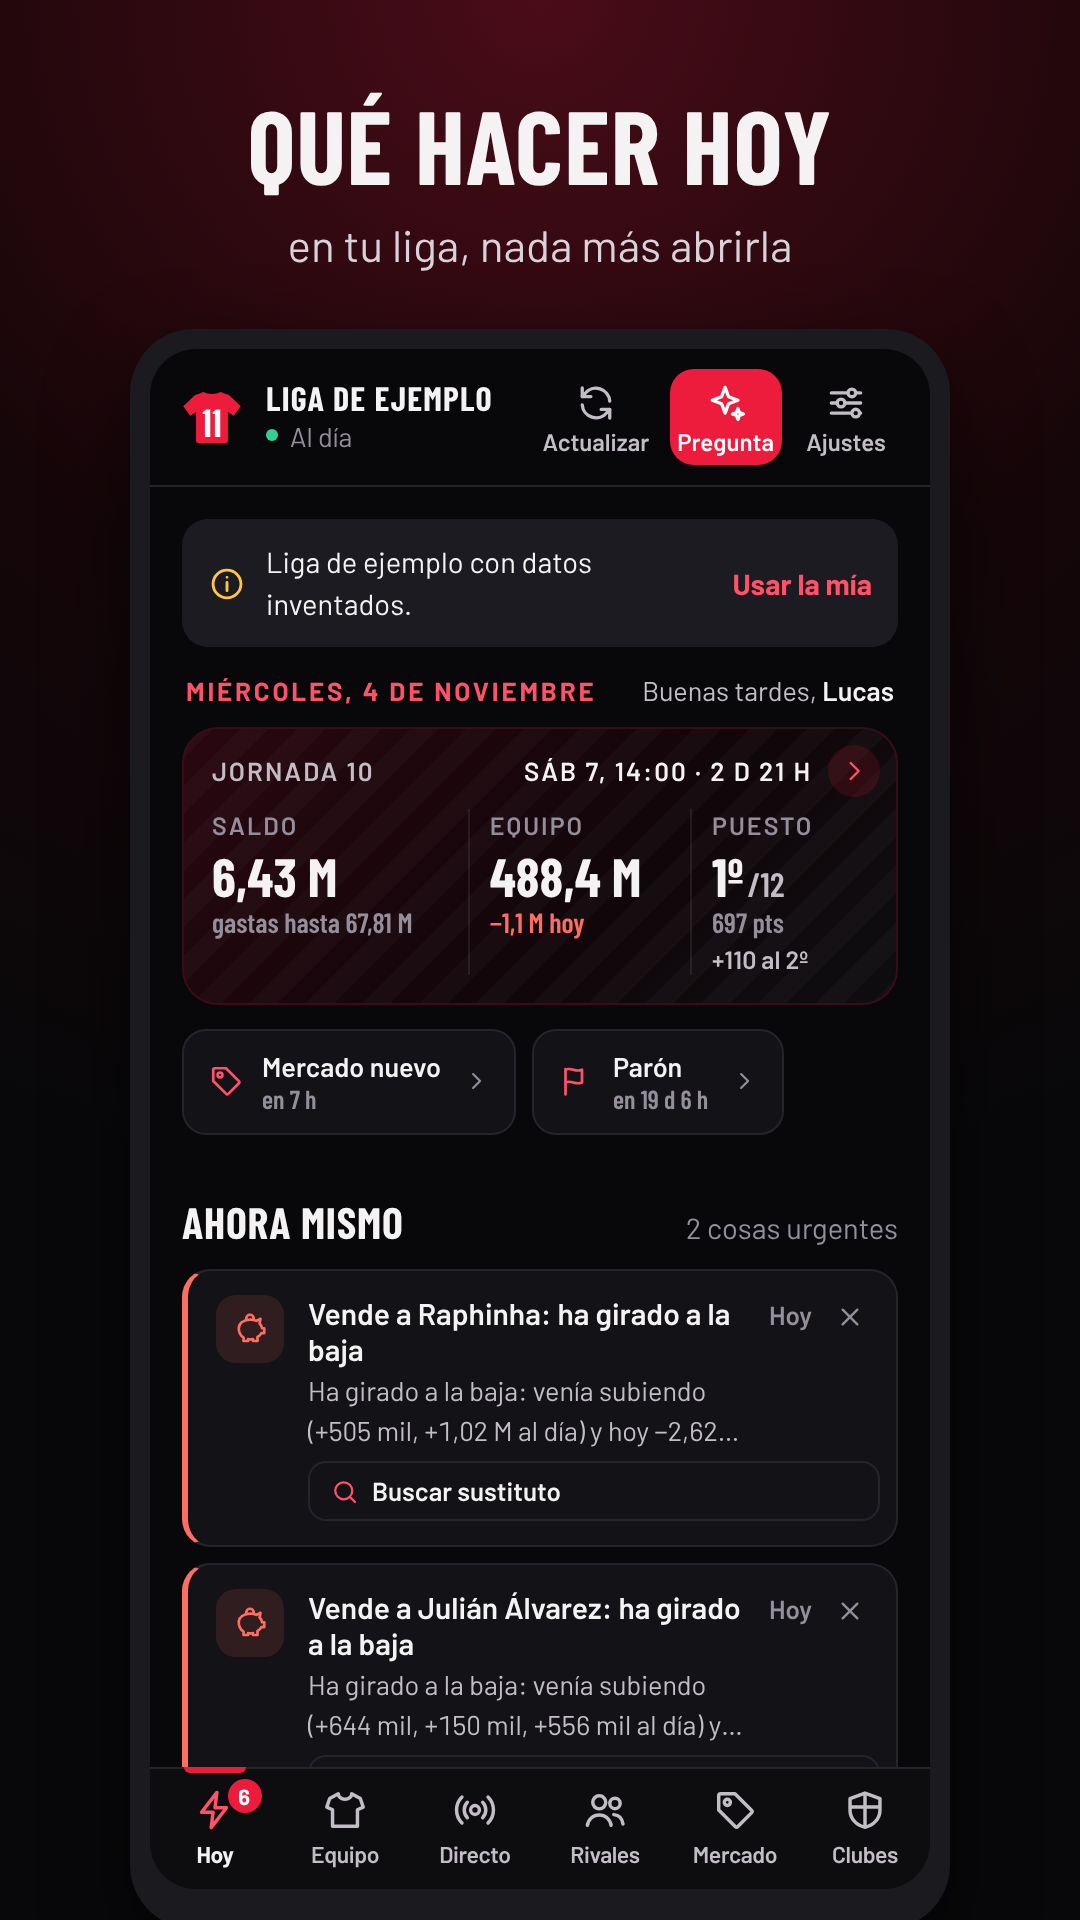
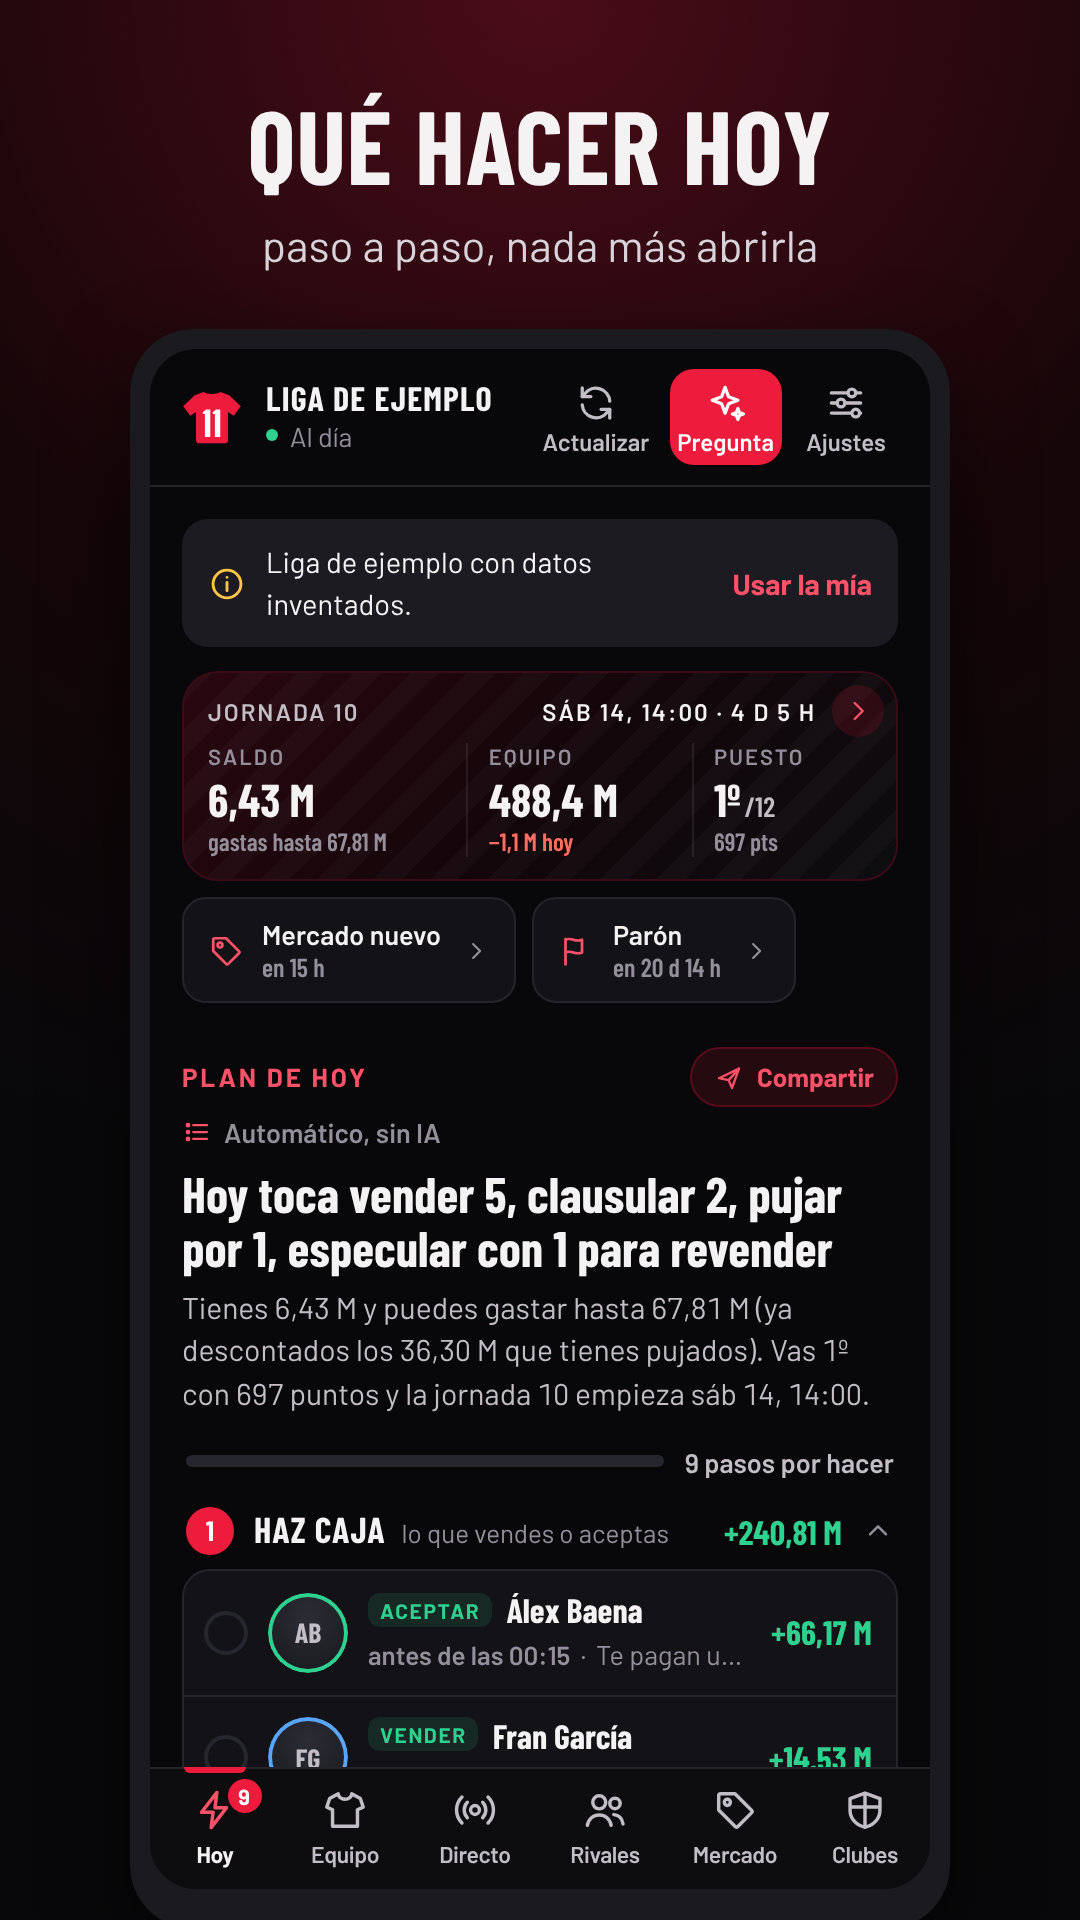
Play: capturas de la 0.7.1e, ficha y política
- Las 8 capturas rehechas con la demo sin parón: la 2 pasa a ser la ficha de
  un club en «Suben y bajan» y la 9, Equipo → Jornadas; la 6 (chat) con una
  respuesta escrita a mano y la cabecera «IA», sin nombres de modelos.
- capturas-play.py: pasos por pantalla, Google simulado con page.route y
  todo lo que no es localhost cortado.
- ficha.md: tabla de capturas y la frase de los nombres de los rivales.
- privacidad.html: el segundo plano viene activado.

Claude-Session: https://claude.ai/code/session_01H9251SnFP7tS7XhvjCDxEG

Changed region(s): [[0.1528, 0.3438, 0.825, 0.9375], [0.2444, 0.125, 0.7639, 0.1562], [0.7028, 0.9062, 0.825, 0.9375]]

diff --git a/web/privacidad.html b/web/privacidad.html
@@ -44,7 +44,7 @@
     <li><b>Tu sesión de LaLiga Fantasy.</b> Entras en la página oficial de LaLiga y la app guarda el permiso que te da LaLiga para leer tu liga. Se guarda solo en tu móvil (o en tu navegador, en la versión web). Fantasy Manager nunca ve tu contraseña.</li>
     <li><b>Los datos de tu liga</b> (clasificación, plantillas, mercado, movimientos, tu saldo). Se descargan de LaLiga y se guardan solo en tu dispositivo para hacer los cálculos y el histórico.</li>
     <li><b>Tu clave de Google AI Studio</b>, si la pones para usar la IA. Se guarda en tu dispositivo. Si abres tu cuenta en el ordenador con el QR o el código, viaja cifrada por el servidor de la web (abajo, «La versión web») y se borra al usarla.</li>
-    <li><b>Lo que le preguntas a la IA.</b> Cuando pides el plan o escribes en el chat, la app manda directamente a la IA de Google, con tu clave (la de Google AI Studio), tu pregunta, las fotos que adjuntes y los datos de tu liga que hacen falta para contestar: tu plantilla, tu saldo, tus ofertas, el mercado y lo que hacen tus rivales. Se cambian los nombres en los datos de la liga: los demás de tu liga (también los que ya se fueron) van como «Rival 1», «Rival 2»…, y la app pone sus nombres de vuelta en la respuesta. Lo que escribas tú o las capturas que adjuntes van tal cual. (Si escribes el nombre de un rival como sale en la liga, la app también lo cambia, pero un apodo, un mote o lo que salga en una captura no.) En la app de Android, si activas el segundo plano, la app vuelve a pedir el plan cada pocas horas aunque no la abras (se apaga en Ajustes). Con la clave gratuita, Google puede usar lo que le mandas para mejorar sus productos y puede que lo lean personas; lo explica en sus <a href="https://ai.google.dev/gemini-api/terms">condiciones</a>. Por eso la IA es para mayores de 18 años y conviene no escribirle datos personales.</li>
+    <li><b>Lo que le preguntas a la IA.</b> Cuando pides el plan o escribes en el chat, la app manda directamente a la IA de Google, con tu clave (la de Google AI Studio), tu pregunta, las fotos que adjuntes y los datos de tu liga que hacen falta para contestar: tu plantilla, tu saldo, tus ofertas, el mercado y lo que hacen tus rivales. Se cambian los nombres en los datos de la liga: los demás de tu liga (también los que ya se fueron) van como «Rival 1», «Rival 2»…, y la app pone sus nombres de vuelta en la respuesta. Lo que escribas tú o las capturas que adjuntes van tal cual. (Si escribes el nombre de un rival como sale en la liga, la app también lo cambia, pero un apodo, un mote o lo que salga en una captura no.) En la app de Android, el segundo plano viene activado: la app vuelve a pedir el plan cada pocas horas aunque no la abras (se apaga en Ajustes → Trabaja con la app cerrada). Con la clave gratuita, Google puede usar lo que le mandas para mejorar sus productos y puede que lo lean personas; lo explica en sus <a href="https://ai.google.dev/gemini-api/terms">condiciones</a>. Por eso la IA es para mayores de 18 años y conviene no escribirle datos personales.</li>
     <li><b>Datos públicos de fútbol</b>: alineaciones probables, noticias y estadísticas de webs públicas. No llevan nada tuyo.</li>
   </ul>
 

diff --git a/.github/capturas-play.py b/.github/capturas-play.py
@@ -1,51 +1,110 @@
 """Las capturas de la ficha de Google Play (1080 x 1920) con la liga de ejemplo.
-Uso: en web/, `python3 -m http.server 8765`; desde la raíz del repo, `python3 .github/capturas-play.py`.
-Las deja en play/. Sin fotos de LaLiga: en local no cargan y salen las iniciales (lo que queremos en Play)."""
-import asyncio, base64
+Uso: en web/, `python3 -m http.server 8765`; desde la raíz del repo, `python3 .github/capturas-play.py [archivo…]`
+(PLAYWRIGHT_BROWSERS_PATH=/opt/pw-browsers en el entorno de Claude). Las deja en play/; con nombres, solo esas.
+Sin fotos de LaLiga: todo lo que no es localhost se corta y salen las iniciales (lo que queremos en Play).
+El chat de la IA no gasta cuota: la respuesta de Google es la de RESPUESTA_IA, escrita a mano con los datos de la demo
+(si cambia la demo, revisar las cifras). La cabecera del mensaje dice «IA», sin nombre de modelo."""
+import asyncio, base64, json, os, sys
 from playwright.async_api import async_playwright
-# (archivo, título, subtítulo, cómo llegar)
+
+PREGUNTA_IA = '¿Clausulo hoy a Kang-In Lee o espero?'
+RESPUESTA_IA = """**Clausúlalo hoy, pero después de vender.** Su cláusula es de 55,32 M y vale 52,77 M: pagas 2,55 M de más (un 4,8 %).
+
+- Entra en tu once y te da unos **4,6 pts por jornada**. Lleva 6,8 de media y acaba de hacer 13 en la J9.
+- Con lo que sube, recuperas esos 2,55 M en **unos 27 días**.
+- Si se tuerce, se lo vendes a LaLiga por unos 54,73 M y casi no pierdes.
+
+Con 6,43 M de saldo no te llega: primero acepta lo de Álex Baena y vende a Raphinha. Después de clausular te quedan unos **154,6 M** para pujar por Unai Simón."""
+
+# la sección «Tu once» de Equipo, arriba (debajo de la cabecera)
+TU_ONCE = "(() => { const e = [...document.querySelectorAll('h2, h3, .sec-t, .titulo2, div, span')].find((x) => x.children.length === 0 && /^tu once$/i.test(x.textContent.trim())); if (e) window.scrollTo(0, e.getBoundingClientRect().top + scrollY - 150); })()"
+# (archivo, título, subtítulo, pasos). Pasos: ('ir', vista), ('seg', 'vista:seg'), ('clic', selector), ('js', código),
+# ('scroll', selector), ('chat', pregunta), ('espera', ms)
 PANTALLAS = [
-  ('captura-1-hoy', 'QUÉ HACER HOY', 'en tu liga, nada más abrirla', "ir:hoy"),
-  ('captura-2-plan', 'PASO A PASO', 'con el saldo después de cada operación', "ir:hoy|scroll:.plan"),
-  ('captura-7-ficha', 'CADA JUGADOR, A FONDO', 'forma, rival, valor y quién lo puede pagar', "ir:equipo|seg:equipo:plantilla|abrir:[data-j]"),
-  ('captura-3-clausulas', 'CLÁUSULAS A TU ALCANCE', 'cuáles te llegan y cuándo se abren', "ir:rivales|seg:rivales:clausulas"),
-  ('captura-4-mercado', 'CUÁNTO PUJAR', 'según lo que se paga en tu liga', "ir:mercado"),
-  ('captura-5-equipo', 'TU MEJOR ONCE', 'con el calendario de cada jugador', "ir:equipo|seg:equipo:plantilla"),
-  ('captura-8-rivales', 'LO QUE HACE CADA RIVAL', 'fichajes, ventas y clausulazos al momento', "ir:rivales|seg:rivales:movimientos"),
-  ('captura-9-directo', 'LA JORNADA EN DIRECTO', 'tus jugadores y sus puntos, al minuto', "ir:directo"),
+  ('captura-1-hoy', 'QUÉ HACER HOY', 'paso a paso, nada más abrirla', [('ir', 'hoy')]),
+  ('captura-2-clubes', 'CLUB A CLUB', 'quién sube y quién baja en cada equipo', [('ir', 'clubes'), ('clic', '.club-card[data-club]'), ('clic', '[data-accion="segClub"][data-s="suben"]')]),
+  ('captura-3-clausulas', 'CLÁUSULAS A TU ALCANCE', 'cuáles te llegan y cuándo se abren', [('ir', 'rivales'), ('seg', 'rivales:clausulas')]),
+  ('captura-4-mercado', 'CUÁNTO PUJAR', 'según lo que se paga en tu liga', [('ir', 'mercado')]),
+  ('captura-5-equipo', 'TU MEJOR ONCE', 'con el calendario de cada jugador', [('ir', 'equipo'), ('seg', 'equipo:plantilla'), ('js', TU_ONCE)]),
+  ('captura-6-chat', 'PREGÚNTALE A LA IA', 'lo que quieras, gratis, también con capturas', [('chat', PREGUNTA_IA)]),
+  ('captura-7-ficha', 'CADA JUGADOR, A FONDO', 'forma, rival, valor y quién lo puede pagar', [('ir', 'equipo'), ('seg', 'equipo:plantilla'), ('clic', '[data-j]')]),
+  ('captura-8-rivales', 'LO QUE HACE CADA RIVAL', 'fichajes, ventas y clausulazos al momento', [('ir', 'rivales'), ('seg', 'rivales:movimientos')]),
+  ('captura-9-jornadas', 'TU ONCE, PUNTO A PUNTO', 'lo que suma cada jugador, jornada a jornada', [('ir', 'directo'), ('clic', '[data-accion="irJornada"][data-n="9"]')]),
 ]
-async def main():
+
+async def google(route):
+    """La IA de Google, de mentira: la lista de modelos y una respuesta escrita a mano (en trozos, como de verdad)."""
+    url = route.request.url
+    if '/models?' in url:
+        return await route.fulfill(status=200, content_type='application/json', body=json.dumps({'models': [{'name': 'models/gemini-3.5-flash', 'supportedGenerationMethods': ['generateContent']}]}))
+    trozos = [RESPUESTA_IA[i:i + 120] for i in range(0, len(RESPUESTA_IA), 120)]
+    pieza = lambda t, fin=None: 'data: ' + json.dumps({'candidates': [{'content': {'role': 'model', 'parts': [{'text': t}]}, **({'finishReason': fin} if fin else {})}], 'usageMetadata': {'promptTokenCount': 9000, 'candidatesTokenCount': 220}}) + '\r\n\r\n'
+    cuerpo = ''.join(pieza(t, 'STOP' if i == len(trozos) - 1 else None) for i, t in enumerate(trozos))
+    if 'alt=sse' in url:
+        return await route.fulfill(status=200, content_type='text/event-stream', body=cuerpo)
+    return await route.fulfill(status=200, content_type='application/json', body=json.dumps({'candidates': [{'content': {'role': 'model', 'parts': [{'text': RESPUESTA_IA}]}, 'finishReason': 'STOP'}]}))
+
+async def red(route):
+    u = route.request.url
+    if u.startswith('http://localhost'): return await route.continue_()
+    if 'generativelanguage.googleapis.com' in u: return await google(route)
+    return await route.abort()
+
+async def cerrar_hoja(pg):
+    await pg.evaluate("(() => { const b = document.querySelector('[data-accion=\"cerrarHoja\"], .hoja-x, [aria-label=\"Cerrar\"]'); if (b) b.click(); })()")
+    await pg.keyboard.press('Escape'); await pg.wait_for_timeout(600)
+
+async def main(solo):
     async with async_playwright() as p:
         b = await p.chromium.launch()
         pg = await b.new_page(viewport={'width': 390, 'height': 770}, device_scale_factor=2)
+        await pg.route('**/*', red)
+        pg.on('pageerror', lambda e: print('ERROR en la página:', e))
         await pg.add_init_script("localStorage.setItem('fm-tour','1')")
+        # el escudo grande de la ficha del club, sin la foto de LaLiga, es un círculo vacío: fuera
+        await pg.add_init_script("addEventListener('DOMContentLoaded', () => { const s = document.createElement('style'); s.textContent = '.pt-esc.sin.club-g{display:none}'; document.head.appendChild(s); })")
         await pg.goto('http://localhost:8765/')
         await pg.wait_for_timeout(7000)
-        for arch, tit, sub, como in PANTALLAS:
-            pasos = dict(x.split(':', 1) for x in como.split('|'))
-            if 'seg' in pasos:
-                v, s_ = pasos['seg'].split(':')
-                await pg.evaluate(f"window.S.seg['{v}'] = '{s_}'")
-            await pg.evaluate(f"document.querySelector('[data-ir=\"{pasos['ir']}\"]').click()")
-            await pg.wait_for_timeout(1200)
-            if 'seg' in pasos:
-                v, s = pasos['seg'].split(':')
-                await pg.evaluate(f"(() => {{ const b = document.querySelector('[data-seg=\"{v}:{s}\"]') || [...document.querySelectorAll('[data-seg]')].find((x) => x.dataset.seg.endsWith(':{s}')); if (b) b.click(); }})()")
-                await pg.wait_for_timeout(1000)
-            await pg.evaluate("window.scrollTo(0,0)")
-            if 'scroll' in pasos:
-                await pg.evaluate(f"(() => {{ const e = document.querySelector('{pasos['scroll']}'); if (e) window.scrollTo(0, e.getBoundingClientRect().top + scrollY - 70); }})()")
-                await pg.wait_for_timeout(500)
-            if 'abrir' in pasos:
-                await pg.evaluate(f"(() => {{ const e = [...document.querySelectorAll('{pasos['abrir']}')].find((x) => x.offsetParent); if (e) e.click(); }})()")
-                await pg.wait_for_timeout(1500)
+        for arch, tit, sub, pasos in PANTALLAS:
+            if solo and arch not in solo: continue
+            await cerrar_hoja(pg)
+            for tipo, x in pasos:
+                if tipo == 'ir':
+                    await pg.evaluate(f"document.querySelector('[data-ir=\"{x}\"]').click()")
+                    await pg.wait_for_timeout(1200)
+                    await pg.evaluate("window.scrollTo(0,0)")
+                elif tipo == 'seg':
+                    v, s = x.split(':')
+                    await pg.evaluate(f"(() => {{ window.S.seg['{v}'] = '{s}'; const b = document.querySelector('[data-seg=\"{v}:{s}\"]') || [...document.querySelectorAll('[data-seg]')].find((x) => x.dataset.seg.endsWith(':{s}')); if (b) b.click(); }})()")
+                    await pg.wait_for_timeout(1000)
+                    await pg.evaluate("window.scrollTo(0,0)")
+                elif tipo == 'clic':
+                    await pg.evaluate(f"(() => {{ const e = [...document.querySelectorAll('{x}')].find((y) => y.offsetParent); if (e) e.click(); }})()")
+                    await pg.wait_for_timeout(1500)
+                elif tipo == 'js':
+                    await pg.evaluate(x); await pg.wait_for_timeout(1500)
+                elif tipo == 'scroll':
+                    await pg.evaluate(f"(() => {{ const e = document.querySelector('{x}'); if (e) window.scrollTo(0, e.getBoundingClientRect().top + scrollY - 70); }})()")
+                    await pg.wait_for_timeout(500)
+                elif tipo == 'espera':
+                    await pg.wait_for_timeout(x)
+                elif tipo == 'chat':
+                    await pg.evaluate("(async () => { const m = await import('/js/puente.js'); m.guardar('gemini', 'AIzaSyDEMOdemoDEMOdemoDEMOdemoDEMOdem'); })()")
+                    await pg.evaluate("document.querySelector('[data-ir=\"ia\"]').click()")
+                    await pg.wait_for_timeout(1200)
+                    await pg.fill('#pregunta', x)
+                    await pg.click('[data-accion="enviar"]')
+                    await pg.wait_for_function("!window.S.charlando", timeout=30000)
+                    await pg.wait_for_timeout(1200)
+                    # la pregunta arriba, con la respuesta entera debajo
+                    await pg.evaluate("(() => { const e = document.querySelector('.msg.yo'); if (e) window.scrollTo(0, e.getBoundingClientRect().top + scrollY - 86); })()")
+                    await pg.wait_for_timeout(500)
+            await pg.evaluate("document.activeElement && document.activeElement.blur()")
             png = await pg.screenshot()
-            if 'abrir' in pasos:
-                await pg.evaluate("(() => { const b = document.querySelector('[data-accion=\"cerrarHoja\"], .hoja-x, [aria-label=\"Cerrar\"]'); if (b) b.click(); })()")
-                await pg.keyboard.press('Escape'); await pg.wait_for_timeout(600)
             await componer(b, arch, tit, sub, png)
             print('hecha', arch)
         await b.close()
+
 async def componer(b, arch, tit, sub, png):
     img = base64.b64encode(png).decode()
     fc = base64.b64encode(open('web/fonts/barlow-condensed-700.woff2','rb').read()).decode()
@@ -64,5 +123,6 @@ async def componer(b, arch, tit, sub, png):
     await pg.evaluate('document.fonts.ready'); await pg.wait_for_timeout(400)
     await pg.screenshot(path=f'play/{arch}.png')
     await pg.close()
-import os; os.makedirs('play', exist_ok=True)
-asyncio.run(main())
+
+os.makedirs('play', exist_ok=True)
+asyncio.run(main(set(sys.argv[1:])))

diff --git a/play/ficha.md b/play/ficha.md
@@ -62,7 +62,7 @@ TU LIGA
 • Invita a los de tu liga con un enlace: al entrar con su cuenta se les abre esa liga.
 • Tarjetas del plan para mandar al grupo.
 
-Funciona en Android y también en el navegador del ordenador. Tu sesión y tu clave de la IA se quedan en tu móvil, la IA no ve los nombres de tus rivales y puedes borrar lo que guarda el servidor desde Ajustes.
+Funciona en Android y también en el navegador del ordenador. Tu sesión y tu clave de la IA se quedan en tu móvil, los nombres de tus rivales se cambian antes de mandar los datos de tu liga a la IA y puedes borrar lo que guarda el servidor desde Ajustes.
 
 Fantasy Manager es una app no oficial: no está hecha por LaLiga ni tiene relación con LaLiga ni con LaLiga Fantasy. Para usarla necesitas tu propia cuenta de LaLiga Fantasy: entras en la página oficial de LaLiga y la app nunca ve tu contraseña.
 
@@ -72,9 +72,9 @@ Fantasy Manager es una app no oficial: no está hecha por LaLiga ni tiene relaci
 | --- | --- | --- |
 | Icono | icono-512.png | 512 × 512 |
 | Gráfico destacado | grafico-destacado-1024x500.png | 1024 × 500 |
-| Capturas de teléfono (8 como mucho) | captura-1-hoy, 2-plan, 3-clausulas, 4-mercado, 6-chat, 7-ficha, 8-rivales y 9-directo (.png) | 1080 × 1920 |
+| Capturas de teléfono (8 como mucho) | captura-1-hoy, 2-clubes, 3-clausulas, 4-mercado, 6-chat, 7-ficha, 8-rivales y 9-jornadas (.png), en ese orden | 1080 × 1920 |
 
-Las capturas usan la liga de ejemplo (datos inventados) y salen sin caras ni escudos de LaLiga (iniciales). Rehechas el 4 nov con la app de la 0.7a (siete pestañas, saludo a «Lucas»), menos la 6 (el chat de la IA, del 25 oct, con la barra de antes: rehacerla con una respuesta de verdad de la IA). La 5 (Equipo) queda de repuesto. Se rehacen con `.github/capturas-play.py` (instrucciones arriba del archivo).
+Las capturas usan la liga de ejemplo (datos inventados) y salen sin caras ni escudos de LaLiga (iniciales). Rehechas las ocho el 10 nov con la app de la 0.7.1e (demo sin parón). Cambian dos: la 2 es ahora la ficha de un club en «Suben y bajan» (antes, el plan, que desde la 0.7.1 ya sale en la primera pantalla de Hoy) y la 9 es Equipo → Jornadas con los puntos de cada jugador (antes, Directo, que sin jornada en juego solo enseñaba el calendario). La 6, el chat, lleva una respuesta escrita a mano con las cifras de la demo y la cabecera dice «IA»: ninguna captura nombra modelos. La 5 (Equipo, tu once) queda de repuesto. Se rehacen con `.github/capturas-play.py` (instrucciones arriba del archivo; si cambia la demo, revisar las cifras de la respuesta del chat).
 
 ## Clasificación de contenido (cuestionario)
 
